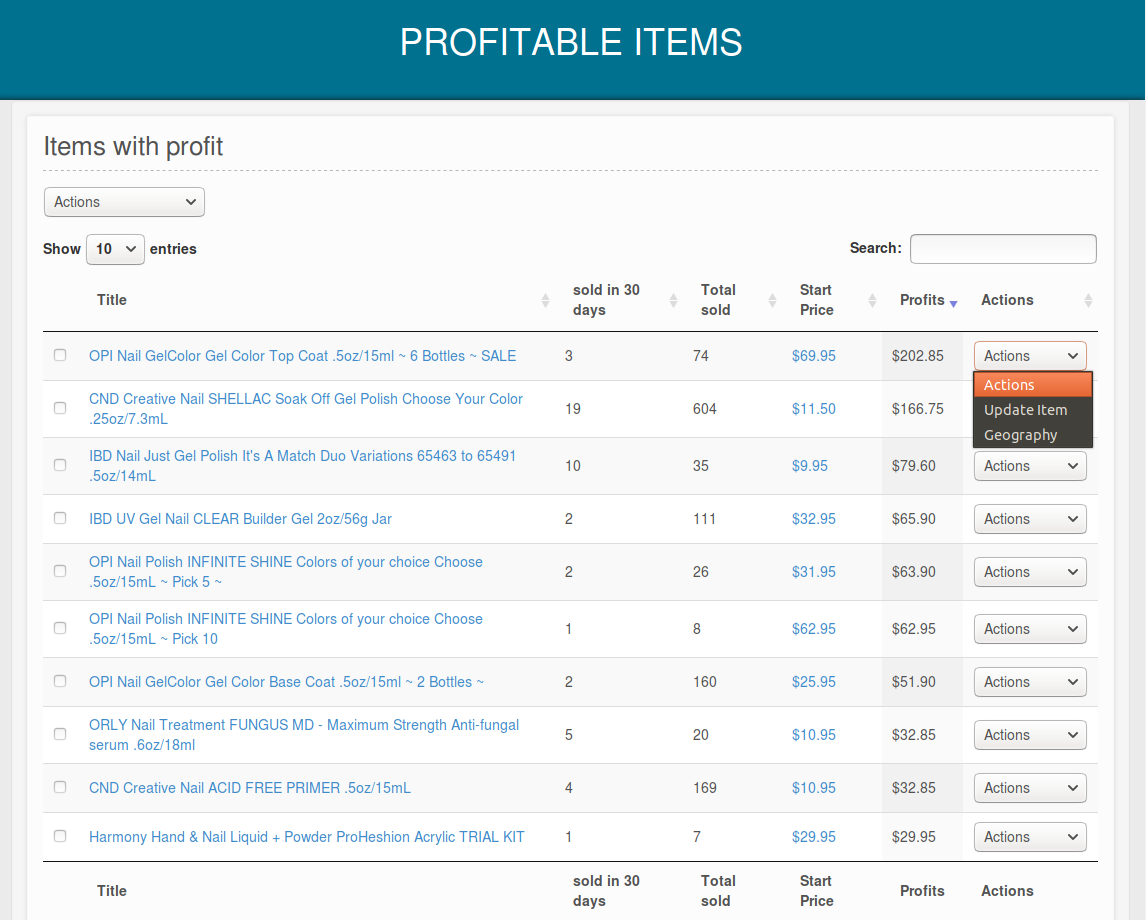
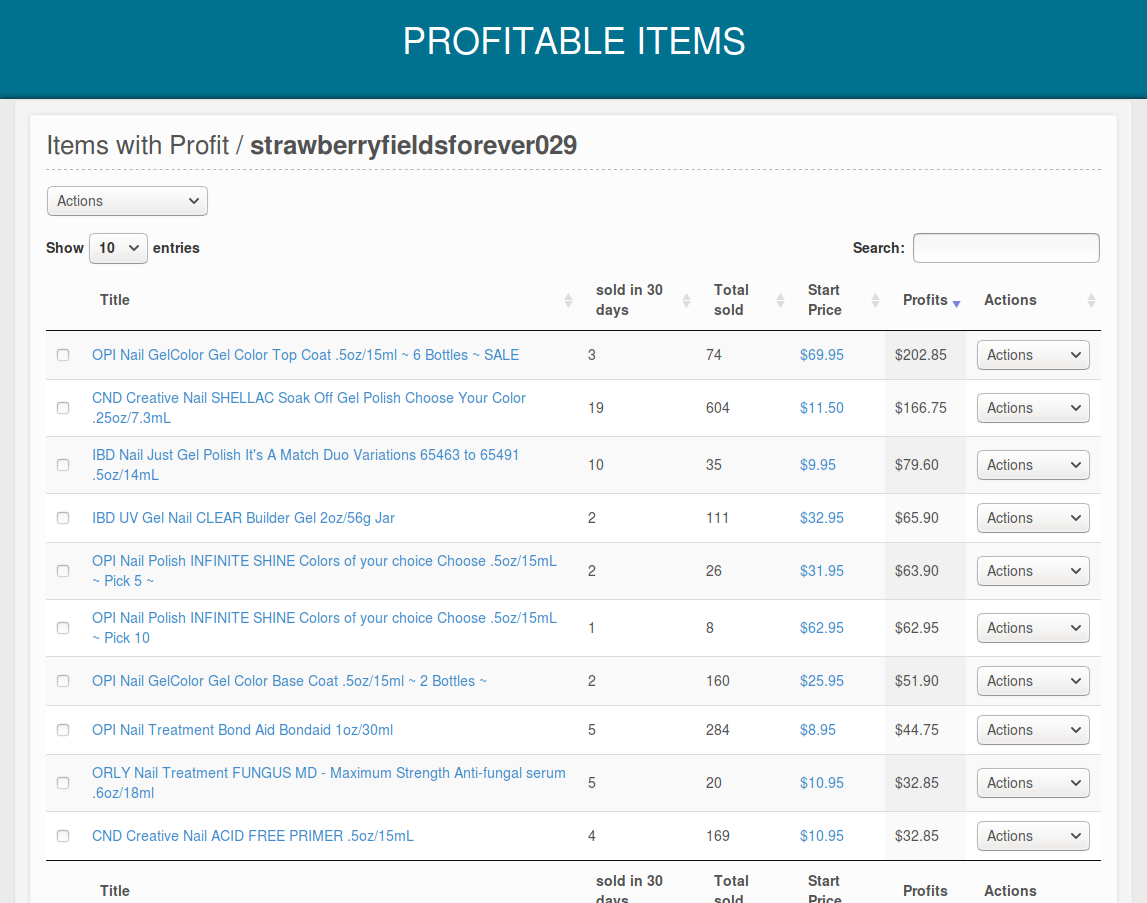
Basic Application

diff --git a/application/views/profits/display_sellers.php b/application/views/profits/display_sellers.php
@@ -21,7 +21,7 @@
 			
 			<div class="box-content">
 			
-				<h4 class="page-header">Items with profit</h4>
+				<h4 class="page-header">Sellers List</h4>
 				<b>Import Listings By:  </b><span id="init_import" class='btn btn-primary button-top'>Seller</span> <span id="init_import" class='btn btn-info button-top'>Category</span>
 			
 					</div>

diff --git a/application/views/profits/display_items.php b/application/views/profits/display_items.php
@@ -21,7 +21,7 @@
 			
 			<div class="box-content">
 			
-				<h4 class="page-header">Items with profit</h4>
+				<h4 class="page-header">Items with Profit / <b><?=$_GET['sellerID']?></b></h4>
 				<div class="buttons-area">					
 					<div class="row form-group">
 					<div class="col-sm-12"> 
